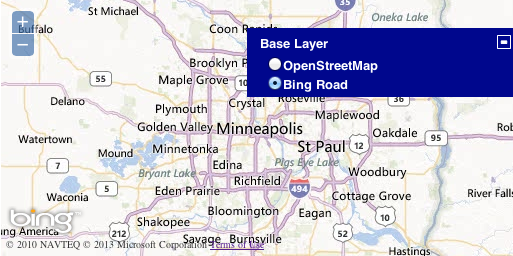
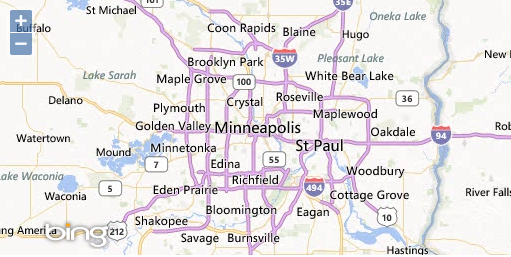
port over proprietary section

diff --git a/ol3/bing.html b/ol3/bing.html
@@ -1,0 +1,39 @@
+<!doctype html>
+<html lang="en">
+  <head>
+    <link rel="stylesheet" href="http://ol3js.org/en/master/build/ol.css" type="text/css">
+    <style>
+      .map {
+        height: 256px;
+        width: 512px;
+      }
+      .ol-attribution ul, .ol-attribution a {
+        color: black;
+      }
+    </style>
+    <script src="http://ol3js.org/en/master/build/ol-simple.js" type="text/javascript"></script>
+    <title>OpenLayers 3 example</title>
+  </head>
+  <body>
+    <h1>My Map</h1>
+    <div id="map" class="map"></div>
+    <script type="text/javascript">
+      var map = new ol.Map({
+        target: 'map',
+        renderer: ol.RendererHint.CANVAS,
+        layers: [
+          new ol.layer.Tile({
+            source: new ol.source.BingMaps({
+              style: 'Road',
+              key: 'Ak-dzM4wZjSqTlzveKz5u0d4IQ4bRzVI309GxmkgSVr1ewS6iPSrOvOKhA-CJlm3'
+            })
+          })
+        ],
+        view: new ol.View2D({
+          center: ol.proj.transform([-93.27, 44.98], 'EPSG:4326', 'EPSG:3857'),
+          zoom: 9
+        })
+      });
+    </script>
+  </body>
+</html>

diff --git a/src/doc/layers/proprietary.rst b/src/doc/layers/proprietary.rst
@@ -5,8 +5,7 @@ Proprietary Layers
 
 In previous sections, we displayed layers based on a standards compliant :abbr:`WMS (OGC Web Map Service)` and a custom tile cache. Online mapping (or at least the tiled map client) was largely popularized by the availability of proprietary map tile services. OpenLayers provides layer types that work with these proprietary services through their APIs.
 
-In this section, we'll build on the example developed in the :ref:`previous section <openlayers.layers.cached.example>` by adding a layer using tiles from Bing, and we'll toss in a layer switcher so you can decide which layers you want visible.
-
+In this section, we'll build on the example developed in the :ref:`previous section <openlayers.layers.cached.example>` by adding a layer using tiles from Bing.
 .. _openlayers.layer.proprietary.bing:
 
 Bing!
@@ -16,31 +15,22 @@ Let's add a Bing layer.
 
 .. rubric:: Tasks
 
-#.  In your ``map.html`` file, find where the :abbr:`OSM (OpenStreetMap)` layer is added in the map initialization code. Below the ``map.addLayer(osm);`` line, add the following:
+#.  In your ``map.html`` file, find where the :abbr:`OSM (OpenStreetMap)` source is configured and change it into an ```ol.source.BingMaps```
 
     .. code-block:: javascript
 
-        var bing = new OpenLayers.Layer.Bing({
[1 lines of base64/hex data omitted]
-            type: "Road",
-        });
-        map.addLayer(bing);
+        source: new ol.source.BingMaps({
+          style: 'Road',
+          key: 'Ak-dzM4wZjSqTlzveKz5u0d4IQ4bRzVI309GxmkgSVr1ewS6iPSrOvOKhA-CJlm3'
+        })
 
     .. note:: The Bing tiles API requires that you register for an API key to use with your mapping application.  The example here uses an API key that you should not use in production.  To use the Bing layer in production, register for an API key at https://www.bingmapsportal.com/.
     
-#.  Now that we have more than one layer in our map, it is time to add a layer switcher that controls layer visibility. Somewhere in your map initialization code (below the part where we create the ``map``), include the following to create a layer switcher and add it to the map:
-
-    .. code-block:: javascript
-
-        map.addControl(new OpenLayers.Control.LayerSwitcher());
-
 #.  Save your changes and reload ``map.html`` in your browser: @workshop_url@/map.html
-    
-#.  Open the Layer Switcher at the upper right-hand corner of the map view, and select "Bing Roads". 
     
 .. figure:: proprietary1.png
    
-    A map with a bing layer and OpenStreetMap tiles.
+    A map with a tile with a Bing Maps source.
 
 Complete Working Example
 ````````````````````````
@@ -49,51 +39,45 @@ Your revised ``map.html`` file should look something like this:
 
 .. code-block:: html
 
-    <!DOCTYPE html>
-    <html>
-        <head>
-            <title>My Map</title>
-            <link rel="stylesheet" href="openlayers/theme/default/style.css" type="text/css">
-            <style>
-                #map-id {
-                    width: 512px;
-                    height: 256px;
-                }
-                .olControlAttribution {
-                    font-size: 10px;
-                    bottom: 5px;
-                    left: 5px;
-                }
-            </style>
-            <script src="openlayers/lib/OpenLayers.js"></script>
-        </head>
-        <body>
-            <h1>My Map</h1>
-            <div id="map-id"></div>
-            <script>
-                var center = new OpenLayers.LonLat(-93.27, 44.98).transform(
-                    'EPSG:4326', 'EPSG:3857'
-                );
-
-                var map = new OpenLayers.Map("map-id", {projection: 'EPSG:3857'});
-
-                var osm = new OpenLayers.Layer.OSM();
-                map.addLayer(osm);
-
-                var bing = new OpenLayers.Layer.Bing({
[1 lines of base64/hex data omitted]
-                    type: "Road",
-                });
-                map.addLayer(bing);
-
-                map.addControl(new OpenLayers.Control.LayerSwitcher());
-            
-                map.setCenter(center, 9);
-            </script>
-        </body>
-    </html>
-
-
+  <!doctype html>
+  <html lang="en">
+    <head>
+      <link rel="stylesheet" href="http://ol3js.org/en/master/build/ol.css" type="text/css">
+      <style>
+        .map {
+          height: 256px;
+          width: 512px;
+        }
+        .ol-attribution ul, .ol-attribution a {
+          color: black;
+        }
+      </style>
+      <script src="http://ol3js.org/en/master/build/ol-simple.js" type="text/javascript"></script>
+      <title>OpenLayers 3 example</title>
+    </head>
+    <body>
+      <h1>My Map</h1>
+      <div id="map" class="map"></div>
+      <script type="text/javascript">
+        var map = new ol.Map({
+          target: 'map',
+          renderer: ol.RendererHint.CANVAS,
+          layers: [
+            new ol.layer.Tile({
+              source: new ol.source.BingMaps({
+                style: 'Road',
+                key: 'Ak-dzM4wZjSqTlzveKz5u0d4IQ4bRzVI309GxmkgSVr1ewS6iPSrOvOKhA-CJlm3'
+              })
+            })
+          ],
+          view: new ol.View2D({
+            center: ol.proj.transform([-93.27, 44.98], 'EPSG:4326', 'EPSG:3857'),
+            zoom: 9
+          })
+        });
+      </script>
+    </body>
+  </html>
 
 Next we'll move on from raster layers and begin working with :ref:`vector layers
 <openlayers.layers.vector>`.
